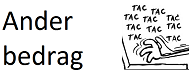
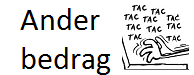
Some GUI progress 2.0
Eigen keuze moet nog connection krijgen met customBedrag

Changed region(s): [[0.0, 0.5867, 0.5876, 1.0], [0.0, 0.1067, 0.5258, 0.4267]]

diff --git a/web/views/geldVragen.html b/web/views/geldVragen.html
@@ -31,7 +31,7 @@
 	<tr>
 		<td><h3>4)	<img src="https://raw.githubusercontent.com/wvanderp/project-3-4/master/web/images/50%20euro%20biljet.png" style="width: 100; height: 55" /></h3></td>
 		<td></td>
-		<td><h3>Ander bedrag	(8</h3></td>
+		<td><h3><img src="https://raw.githubusercontent.com/wvanderp/project-3-4/master/web/images/Ander%20bedrag.png" style="width: 100; height: 55" />	(8</h3></td>
 	</tr>
 </table>
 	
